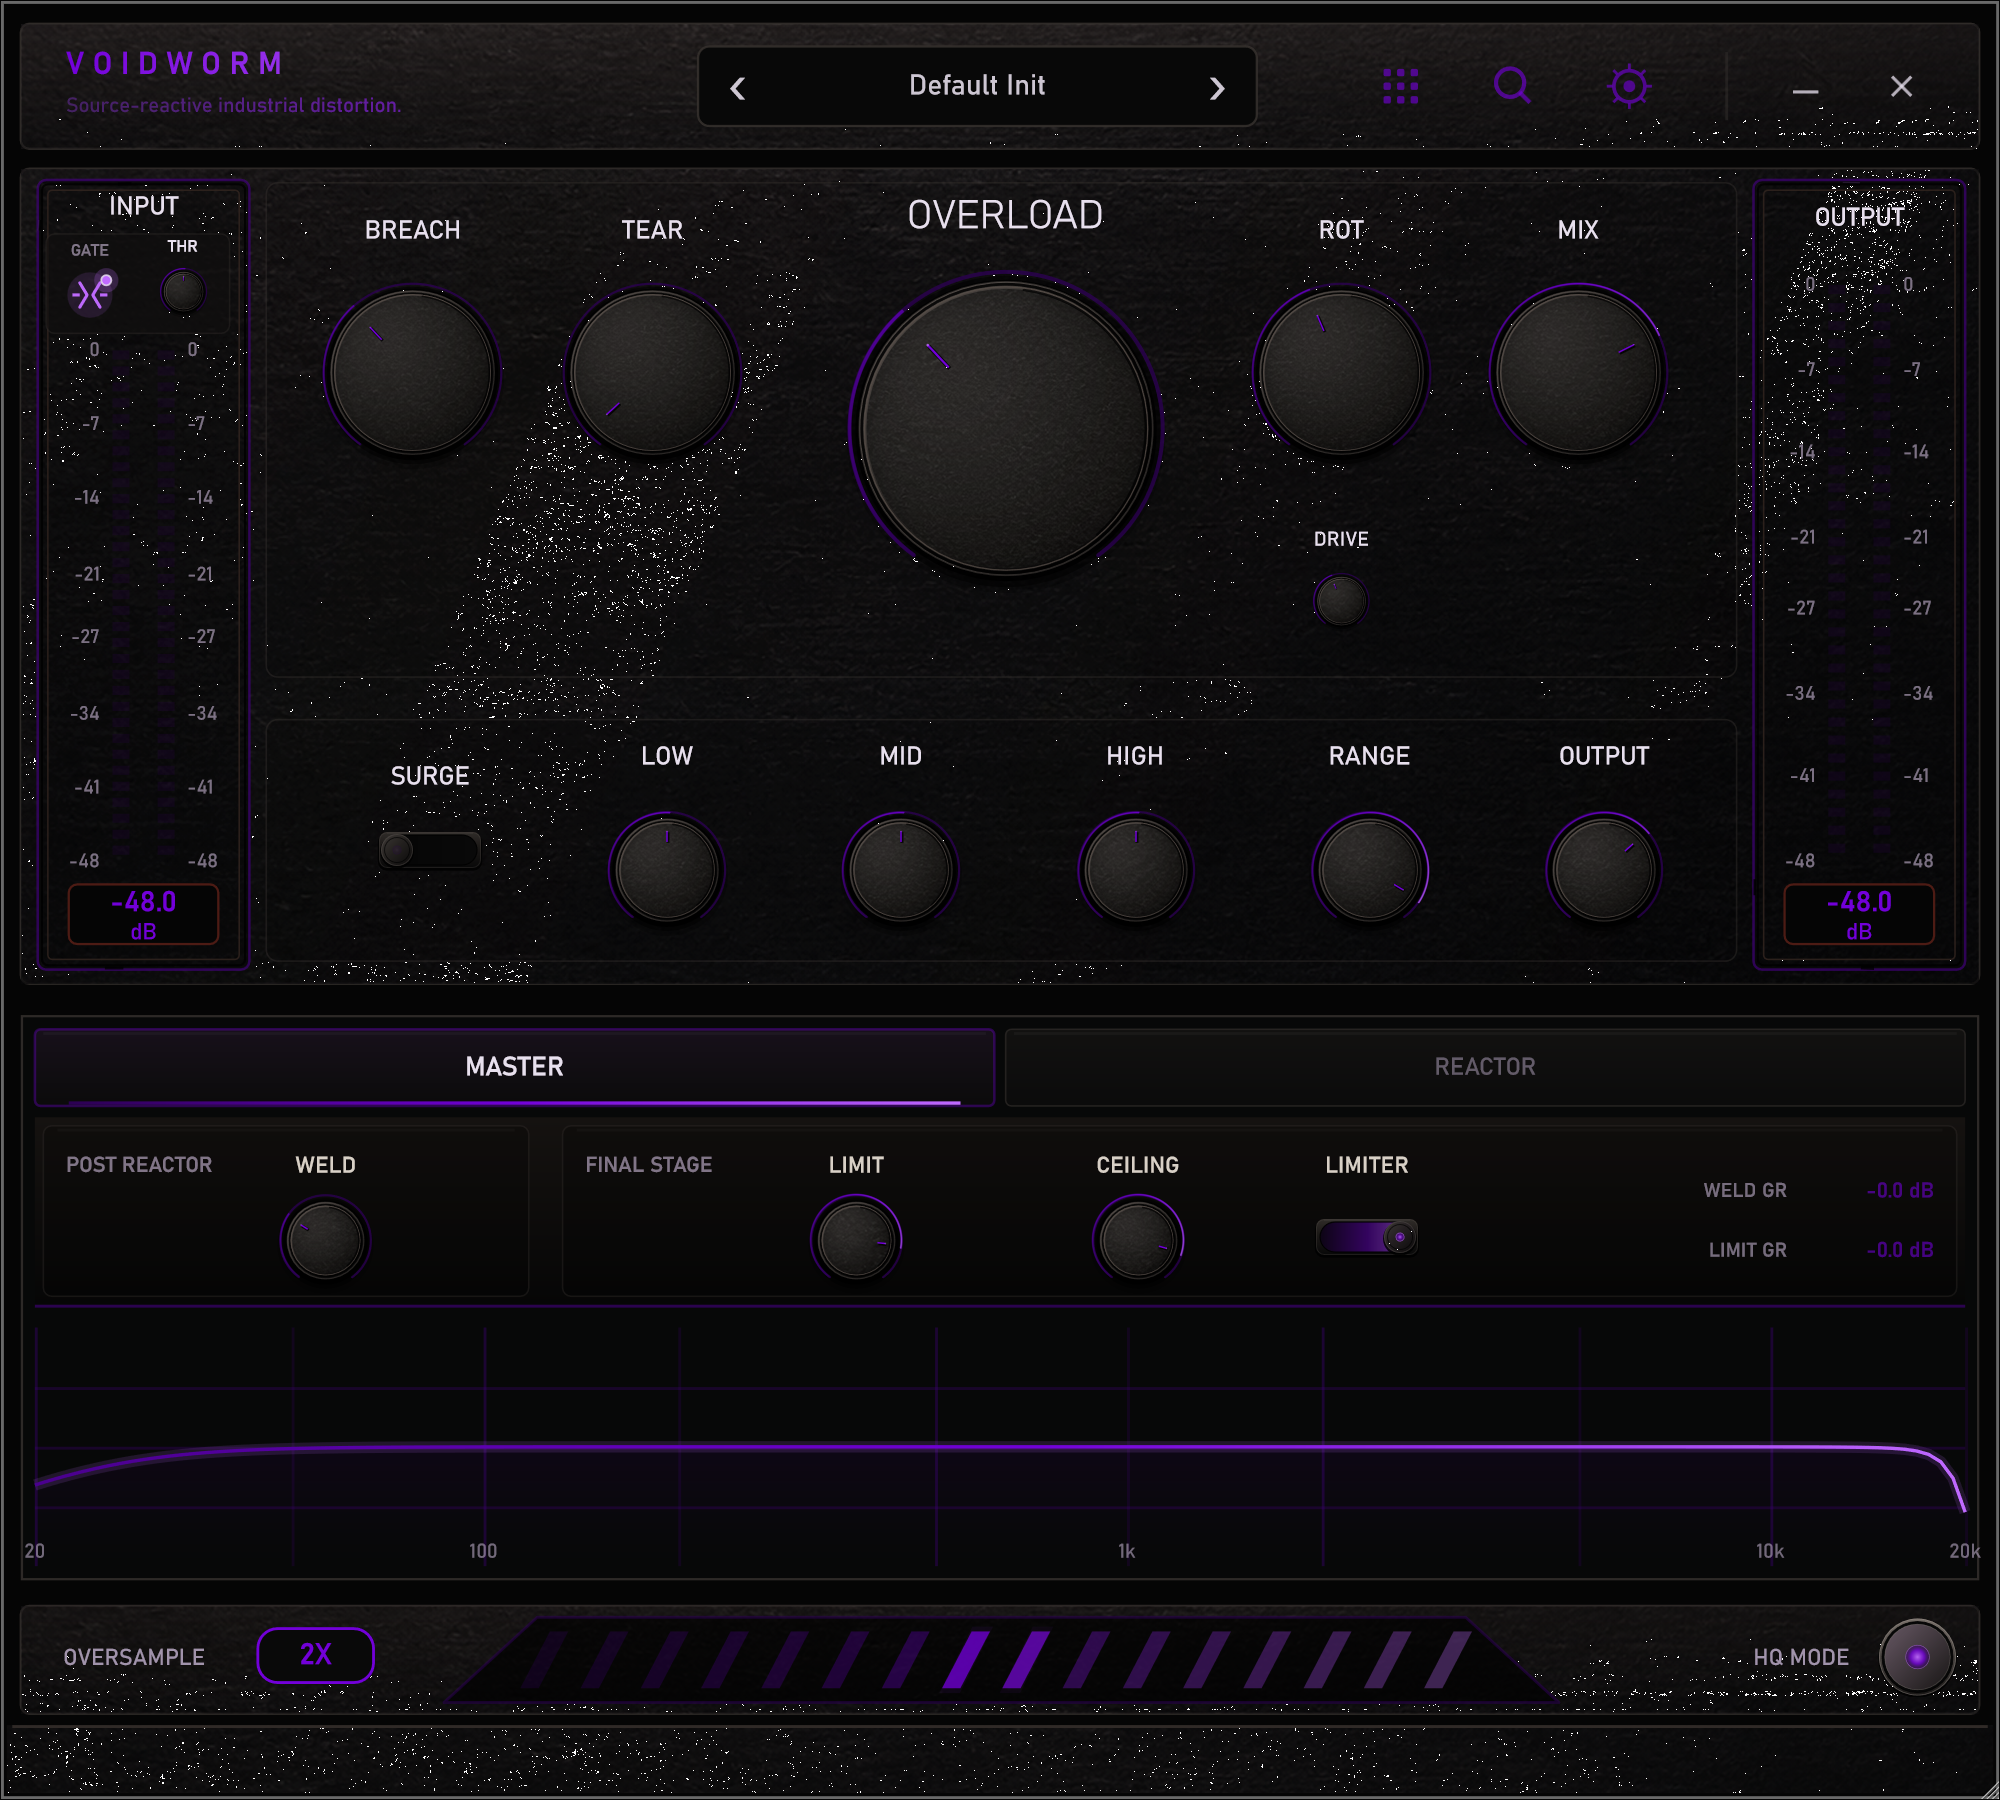
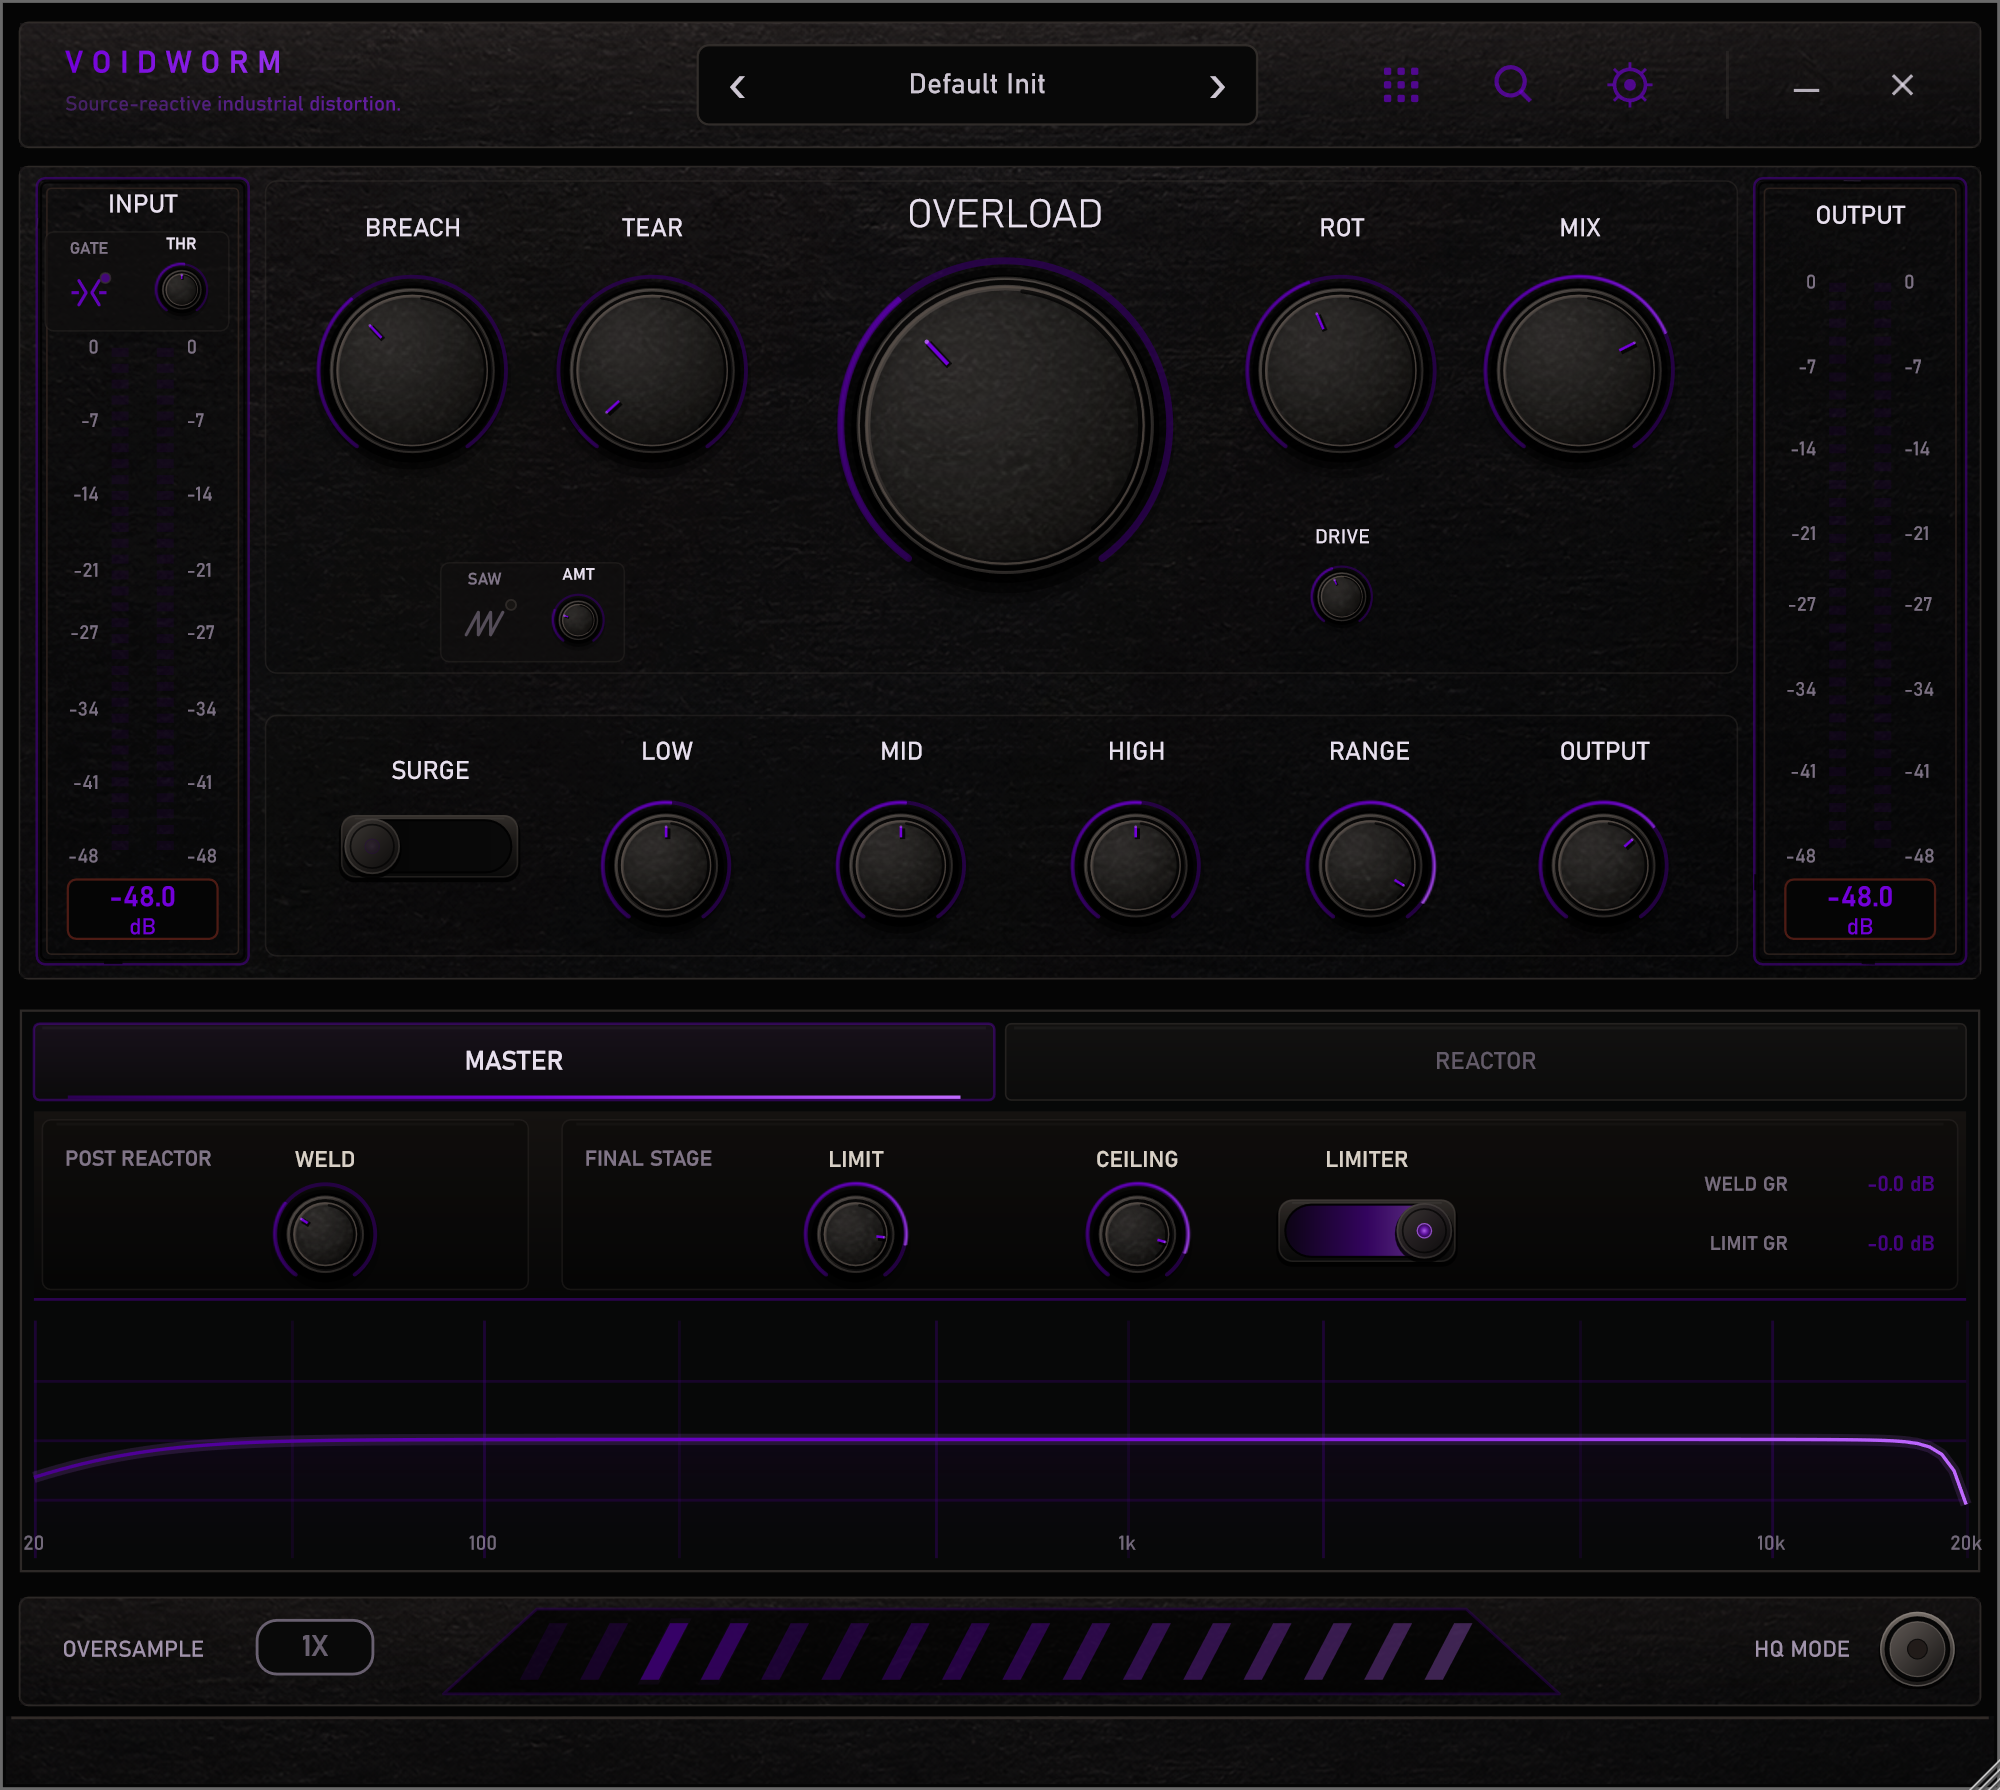
Document SAW; recapture the screenshots with it
The README describes SAW, what it costs when switched on (about 7.5 points
of a core at any factor, nothing when off) and that presets now carry it.
The five screenshots are rendered again from the editor in the same states
as before, so they show the SAW module and the 1X default.

diff --git a/README.md b/README.md
@@ -31,6 +31,8 @@ VOIDWORM follows the incoming signal instead of laying the same static distortio
 - **ARC:** Source-derived metallic/electrical intermodulation.
 - **FEEDBACK:** Short bounded nonlinear recursion and unstable texture.
 
+**SAW** is a final creative stage after the reactor blend. It bends the signal through a saw, square, or triangle transfer shaped by the source's own level, adding a hard harmonic edge that follows the playing. One click switches it on, right-click or scroll changes the shape, and AMT sets how much.
+
 <p align="center">
   <img src="./Media/VOIDWORM_Reactor.png" width="100%" alt="VOIDWORM REACTOR workspace">
 </p>
@@ -91,7 +93,7 @@ Runs VOIDWORM without a DAW and includes integrated Audio/MIDI device settings, 
 
 The input gate is stereo-linked, enabled by default, and positioned before dry capture, DRIVE, source analysis, and the reactor engine. BREACH cross-contaminates reactor paths; TEAR introduces post-reactor micro-fragment damage; ROT and OVERLOAD control nonlinear severity; SURGE escalates the engine dynamically.
 
-Each reactor has independent amount, on/off, Solo, high-pass and low-pass boundaries, two focus bands, and path-specific character controls. WELD is the artistic nonlinear stage after recombination. LOW, MID, HIGH, RANGE, and OUTPUT shape the master signal before the dedicated final limiter.
+Each reactor has independent amount, on/off, Solo, high-pass and low-pass boundaries, two focus bands, and path-specific character controls. WELD is the artistic nonlinear stage after recombination. SAW follows the dry/wet mix and runs at about 400 kHz internally whatever the oversampling factor, so its shapes stay clean; its latency is constant and reported whether it is on or off. LOW, MID, HIGH, RANGE, and OUTPUT shape the master signal before the dedicated final limiter.
 
 MIX uses a latency-aligned dry path. Oversampling supports 1X, 2X, 4X, and 8X with a separate HQ processing mode.
 
@@ -118,6 +120,9 @@ HQ mode swaps the IIR halfband filters for linear-phase FIR ones. It adds up to 
 fifth and is off by default, so it is rarely the control worth reaching for first.
 Stepping the oversampling factor down one notch saves considerably more.
 
+SAW, when switched on, adds about 7.5 points of a core at any factor: it runs its own oversampling
+at about 400 kHz. Switched off it costs nothing.
+
 The defaults are 1X with HQ off: the clips and folds are anti-aliased in themselves, so 1X is
 already cleaner than older versions were at 2X. Sessions keep the factor they were saved with.
 Presets deliberately preserve whatever factor you have selected rather than overriding it, so
@@ -128,7 +133,7 @@ raising or lowering it is a global choice that survives preset changes.
 <details>
 <summary><strong>Presets, themes & state</strong></summary>
 
-User presets support Save, Load, Overwrite, Rename, Delete, and Search. They are stored as versioned `.voidwormpreset` files under the user's application-data directory.
+User presets support Save, Load, Overwrite, Rename, Delete, and Search. They are stored as versioned `.voidwormpreset` files under the user's application-data directory, and include SAW; presets saved before 1.2.0 load with SAW off. Factory presets switch SAW off.
 
 The twelve faceplates are UV STEEL, HELLFORGE STEEL, KRYPT CYAN, XENO ACID, VOID AMBER, TOXIC BRASS, PLASMA BLUE, NUCLEAR LIME, BLOOD COPPER, ASHEN GOLD, GLACIER TEAL, and RUPTURE RED. UV STEEL is the default.
 
